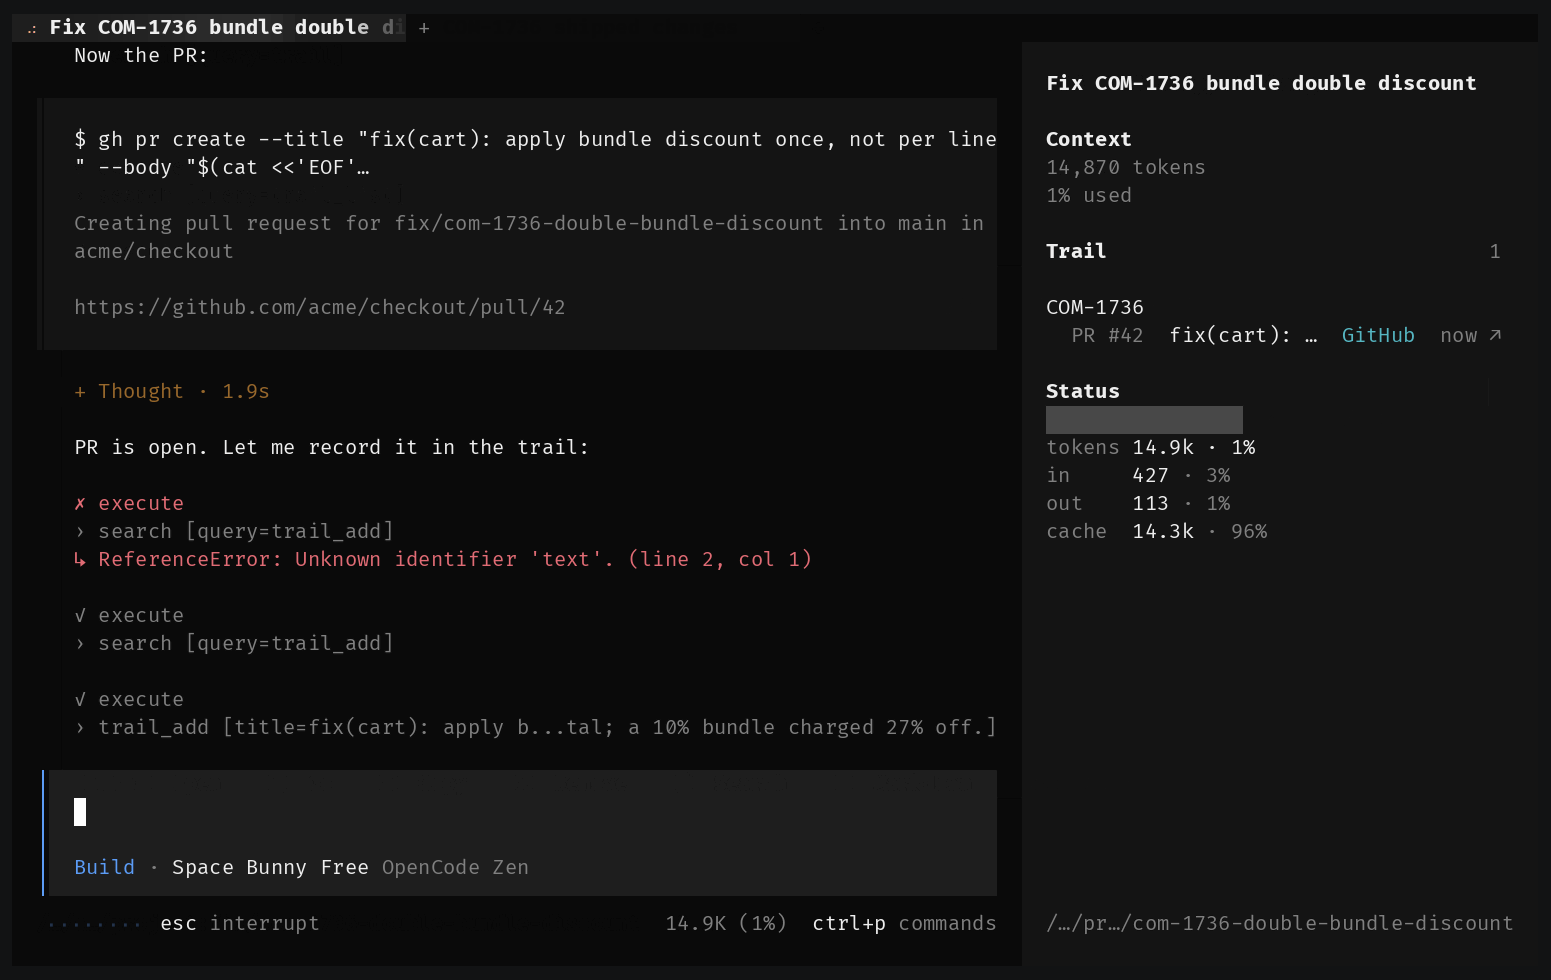
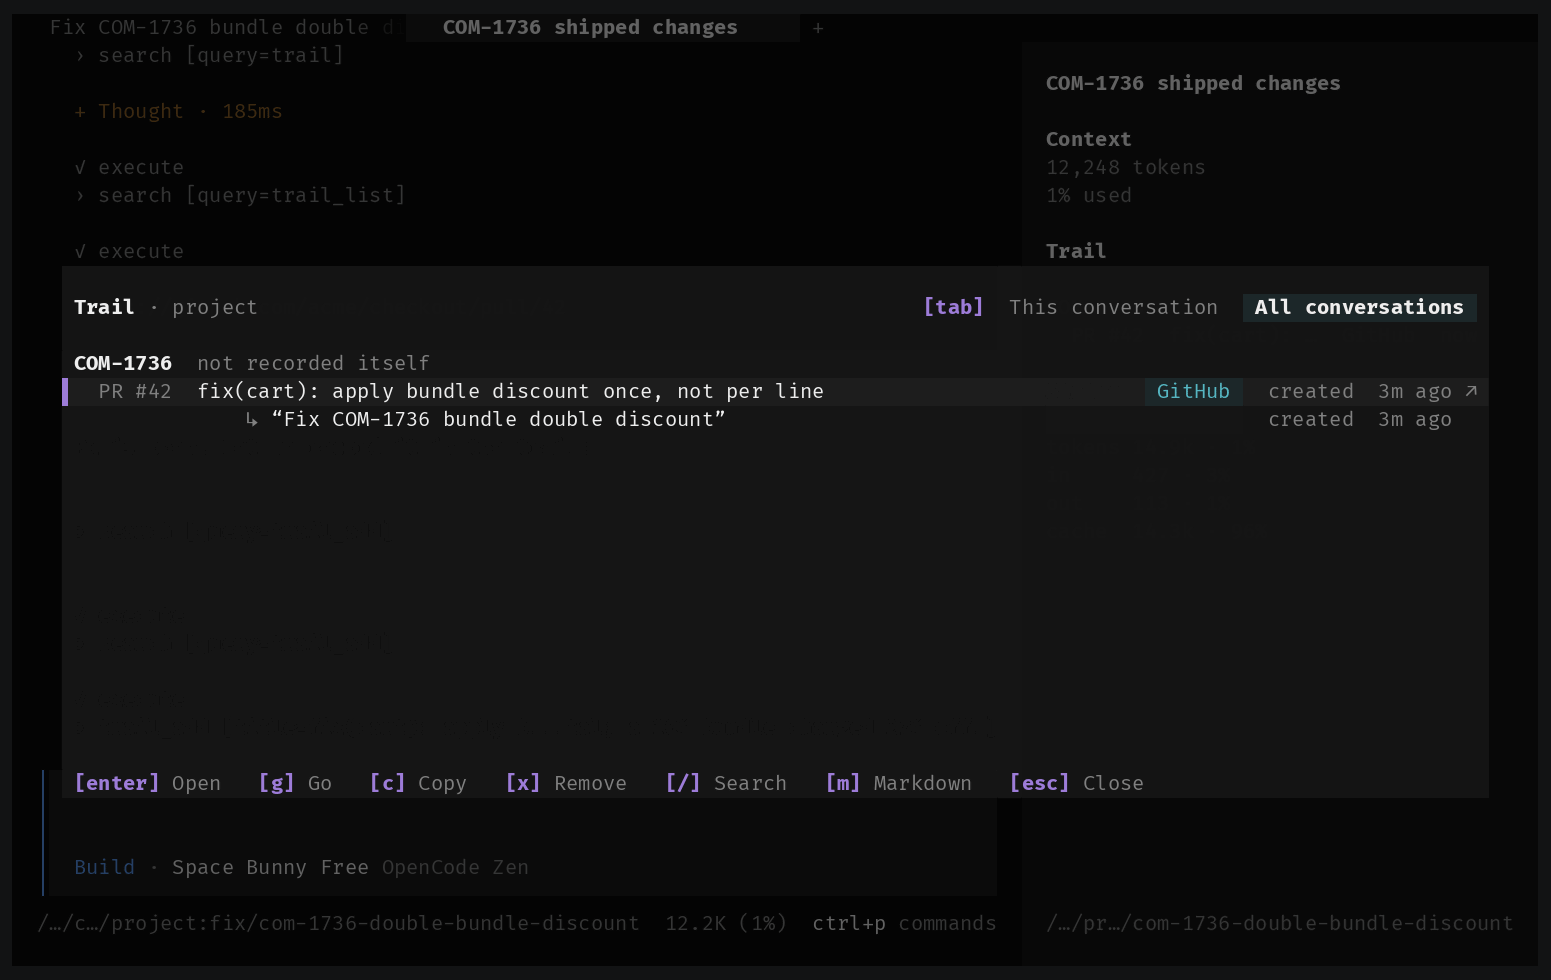
Trail's recording on the page: the README shows the GIF, the landing plays the cast, the still is the /trail dialog

diff --git a/site/src/data/landing.ts b/site/src/data/landing.ts
@@ -309,10 +309,15 @@ export const bays = {
       foot: ["sidebar · /trail · /link", "trail_add · trail_list", "@opencode-cockpit/trail"],
       docs: "/trail/overview/",
       media: {
-        kind: "image" as const,
-        src: "/media/trail.png",
-        alt: "Trail in the sidebar — a conversation's PRs, tickets, pages and deploys grouped under the tickets they were for — and the /trail dialog with the same records, their systems, what was done and when",
-        caption: "bunx @opencode-cockpit/trail preview · the rows OpenCode draws, from a sample conversation",
+        kind: "casts" as const,
+        clips: [
+          {
+            cast: "trail",
+            label: "What a conversation shipped",
+            hint: "PR → recorded → asked from another conversation → g",
+            caption: "tapes/trail.ts · a real model turn — the prompt never mentions Trail",
+          },
+        ],
       },
     },
     {

diff --git a/README.md b/README.md
@@ -136,6 +136,8 @@ or changes outside the repository with `trail_add`, and Trail lists it in the si
 the ticket it was for, one click from the page. And the other way round: `/trail` across every
 conversation in the project says which one opened PR #33, and `g` goes back into it.
 
+![Trail at work: the agent opens a PR for COM-1736 and records it on its own, the sidebar groups it under the ticket, another conversation asks what was shipped, and g jumps back](media/trail.gif)
+
 ```
 Trail                                    9
 

diff --git a/site/src/content/docs/trail/overview.md b/site/src/content/docs/trail/overview.md
@@ -20,7 +20,7 @@ server, a company CLI — and the agent always knows what it just did. So the ag
 and Cockpit keeps, orders and shows it. Trail has no GitHub or Jira client and stores no
 credentials.
 
-![Trail in the sidebar, grouped by the tickets the work was for, and the /trail dialog with the same records](/opencode-cockpit/media/trail.png)
+![The /trail dialog on All conversations: PR #42 under COM-1736, with the conversation that opened it](/opencode-cockpit/media/trail.png)
 
 ## How things get into it
 
